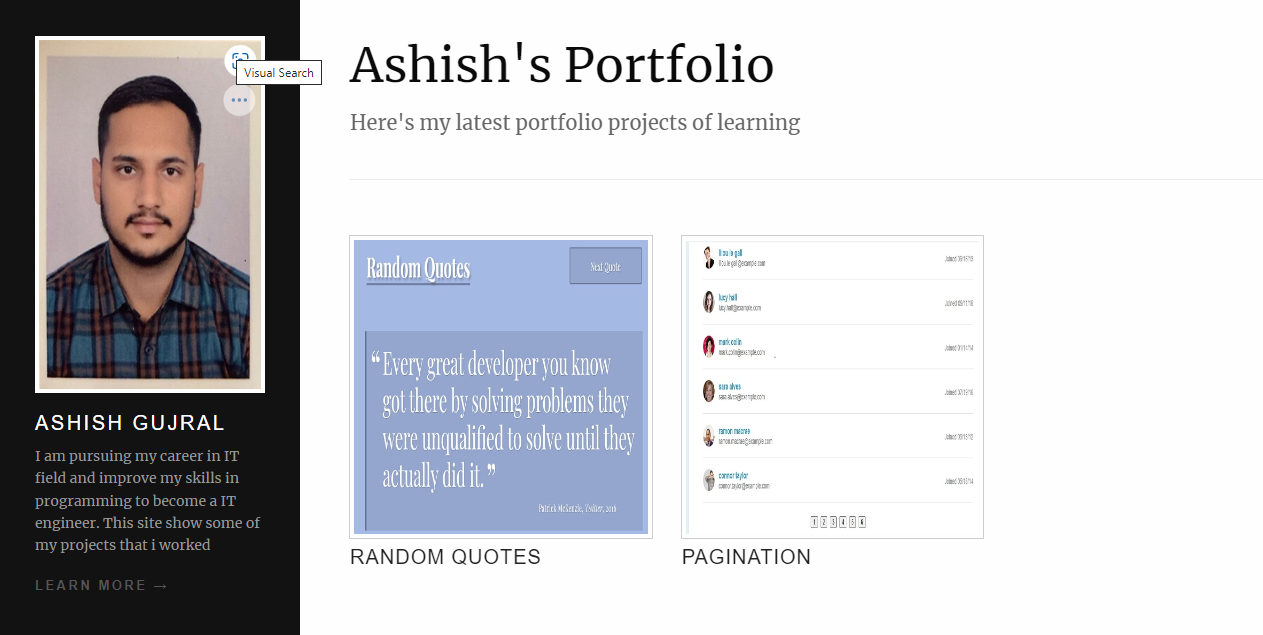
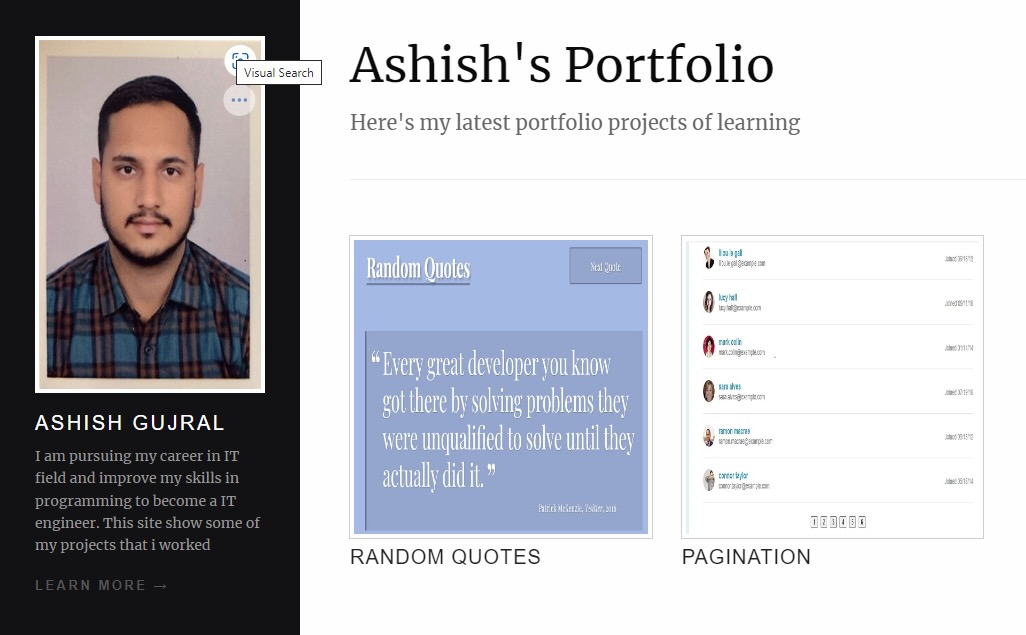
fix

diff --git a/src/Portfolio/Portfolio.jsx b/src/Portfolio/Portfolio.jsx
@@ -8,6 +8,7 @@ import Java from '../imgs/java.jpg'
 import Android1 from '../imgs/android1.jpg'
 import Android2 from '../imgs/android2.jpg'
 import PortfolioItem from './PortfolioItem';
+import Arduino from '../imgs/Arduino.jpg';
 import './Portfolio.css';
 import React, {useState} from 'react';
 
@@ -15,14 +16,14 @@ const portfolioData = [
   {
   category: 'web',
   imageSrc: Web1,
-  linkUrl: Web1,
+  linkUrl: "https://github.com/AshishGujral/Php-CrudOperation",
   title: 'WEB',
   subtitle: 'Php Crud Operation!',
   },
   {
   category: 'web',
   imageSrc: Web2,
-  linkUrl: Web2,
+  linkUrl: "https://github.com/AshishGujral/Php-LoginAuthentication",
   title: 'WEB',
   subtitle: 'Php user registration using Rest api!',
   },
@@ -43,21 +44,28 @@ const portfolioData = [
   {
   category: 'html',
   imageSrc: Html3,
-  linkUrl: Html3,
+  linkUrl: "https://github.com/AshishGujral/NodeJs-PortfolioProject",
   title: 'Node JS',
   subtitle: 'Portfolio website using node js',
   },
   {
   category: 'web',
   imageSrc: Java,
-  linkUrl: Java,
+  linkUrl: "https://github.com/AshishGujral/LibraryManagement-Javaproject",
   title: 'Java',
   subtitle: 'Library Application',
   },
   {
+    category: 'web',
+    imageSrc: Arduino,
+    linkUrl: 'https://github.com/AshishGujral/Synchome',
+    title: 'Full Stack',
+    subtitle: 'Using ESP32',
+    },
+  {
   category: 'android',
   imageSrc: Android1,
-  linkUrl: Android1,
+  linkUrl: "https://github.com/AshishGujral/BookShare",
   title: 'Android',
   subtitle: 'Bookshare App with login logout',
   },
@@ -84,7 +92,7 @@ const portfolioData = [
   
     return (
       <section className="section bg-custom-gray" id="portfolio">
-        <div className="container">
+        <div className="containe">
           <h2 className="mb-5">
             <span className="text-danger">My Portfolio </span>
             <span className="line"></span>

diff --git a/src/About/About.jsx b/src/About/About.jsx
@@ -32,7 +32,7 @@ const About = () => {
       <div id="about" className="row about-section">
         <div className="col-lg-4 about-card">
           <h3 className="font-weight-light">Who am I ?</h3>
-          <span className="line mb-5"></span>
+          <span className="line"></span>
           <h5 className="about-text" style={{opacity:0.8}}>
           As a passionate web developer, I strive to create unique and innovative web solutions that leave a lasting impact. From front-end design to back-end development, I'm always up for a challenge and eager to learn something new. 
 So grab a cup of coffee ☕ and let's dive into the world of web development together! 🌐💻
@@ -40,7 +40,7 @@ So grab a cup of coffee ☕ and let's dive into the world of web development 
         </div>
         <div className="col-lg-4 about-card">
           <h3 className="font-weight-light">Personal Info</h3>
-          <span className="line mb-5"></span>
+          <span className="line"></span>
           <ul className="mt40 info list-unstyled" >
             <li>
               <span>Email</span> : ashishgujral22@gmail.com

diff --git a/src/Portfolio/PortfolioItem.jsx b/src/Portfolio/PortfolioItem.jsx
@@ -1,17 +1,17 @@
-
 import './PortfolioItem.css';
+
 function PortfolioItem({ category, imageSrc, linkUrl, title, subtitle }) {
+  
+  const handleClick = () => {
+    window.open(linkUrl, '_blank');
+  };
   return (
     <div className={`col-md-6 col-lg-4 ${category} new`}>
       <div className="portfolio-item">
-        <img
-          src={imageSrc}
-          className="img-fluid"
-          alt={title}
-          height="200px"
-        />
-        <div className="content-holder">
-
+        <a href={linkUrl} target="_blank" rel="noopener noreferrer">
+          <img src={imageSrc} className="img-fluid" alt={title} style={{ height: '200px', width: '90%' }} />
+        </a>
+        <div className="content-holder" onClick={handleClick}>
           <div className="text-holder">
             <h6 className="title">{title}</h6>
             <p className="subtitle">{subtitle}</p>
@@ -22,4 +22,4 @@ function PortfolioItem({ category, imageSrc, linkUrl, title, subtitle }) {
   );
 }
 
-export default PortfolioItem ;
+export default PortfolioItem;

diff --git a/src/TeamView/TeamView.css b/src/TeamView/TeamView.css
@@ -2,21 +2,19 @@
   .card-text{
     width: 300px;
     height: 200px;
-  
   }
   .card-body{
     height: fit-content;
   }
+  #teamview{
+    width: 90%;
+    margin-left: auto;
+    margin-right: auto;
+  }
 .text-danger{
   font-size: 1em;
 }
-  .gtco-testimonials{
-    padding-right: 15px;
-    padding-left: 15px;
-    margin: 30px;
-    margin-top: 70px;
 
-  }
   .gtco-testimonials h2 {
     font-size: 30px;
     color: #333333;
@@ -66,6 +64,8 @@
     transform: scale(0.8);
     transition: all 0.3s ease;
     margin: auto;
+    width: auto;
+    max-width: 90;
   }
   
   .gtco-testimonials .card.active {
@@ -137,6 +137,14 @@
     .gtco-testimonials {
       margin-top: 20px;
     }
+    .card-text{
+      width: auto;
+      height: 230px;
+    }
+    .text-danger{
+      font-size: 0.8em;
+    }
+
   }
   .owl-carousel .owl-nav button.owl-next, .owl-carousel .owl-nav button.owl-prev {
     outline: 0;

diff --git a/src/Portfolio/PortfolioItem.css b/src/Portfolio/PortfolioItem.css
@@ -1,16 +1,24 @@
-
-  .portfolio .portfolio-container .portfolio-item .content-holder {
-    position: absolute;
-    top: 0;
-    left: 0;
-    width: 100%;
-    height: 100%;
-    background: rgba(248, 92, 112, 0.8);
-    color: #fff;
-    opacity: 0;
-    visibility: hidden;
-    text-align: center;
-  }
- .col-lg-4{
+.portfolio .portfolio-container .portfolio-item .content-holder {
+  position: absolute;
+  top: 0;
+  left: 0;
+  width: 100%;
+  height: 100%;
+  background: rgba(248, 92, 112, 0.8);
+  color: #fff;
+  opacity: 0;
+  visibility: hidden;
+  text-align: center;
+  /* Add the following styles to make the content-holder clickable */
+  display: flex;
+  justify-content: center;
+  align-items: center;
+  cursor: pointer;
+}
+.img-fluid {
+  margin-left: auto;
+  margin-right: auto;
+}
+.col-lg-4 {
   margin-top: 20px;
- }
+}

diff --git a/src/Education/Education.css b/src/Education/Education.css
@@ -35,8 +35,8 @@
     border: 1px solid rgba(0, 0, 0, 0.125);
     border-radius: 30px;
     width:fit-content;
-    min-width:max-content;
     box-sizing: border-box;
+    margin-left:40px;
   }
 
 .line {
@@ -44,6 +44,11 @@
     width: 25px;
     height: 1.5px;
     background-color: #F85C70;
+  }
+  #education{
+    margin-left: auto;
+    margin-right: auto;
+    width: 90%;
   }
   hr {
     margin-top: 1rem;
@@ -53,3 +58,12 @@
   }
   
 
+/* Extra Small Devices (portrait phones) */
+@media only screen and (max-width: 476px) {
+
+.card{
+  margin-left: auto;
+  margin-right: auto;
+  width: 90%;
+}
+}

diff --git a/src/Header/Header.css b/src/Header/Header.css
@@ -3,6 +3,7 @@
     padding-right: 15px;
     padding-left: 15px;
     margin-left:30px ;
+
   }
 
   .h4{
@@ -123,9 +124,9 @@
   .animated-item:nth-child(3n+3) {
     animation-delay: 4s;
   }
-  @media (min-width: 576px) {
+  @media (max-width: 576px) {
     .container {
-      max-width: 540px;
+      max-width: 140px;
     }
   }
   @keyframes BottomTotop {

diff --git a/src/Skills/Skills.jsx b/src/Skills/Skills.jsx
@@ -5,7 +5,7 @@ const Skills = (props) => {
     return (
       <div className="col-lg-4 about-card">
         <h3 className="font-weight-light">Skills</h3>
-        <span className="line mb-5"></span>
+        <span className="line"></span>
         <div className="row" id="sk">
             
           {props.item.map((item, index) => (

diff --git a/src/Education/Education.jsx b/src/Education/Education.jsx
@@ -3,7 +3,7 @@ import './Education.css';
 const Education = () => {
   return (
   <section className="section" id="education">
-  <div className="container">
+  <div className="containe">
       <h2 className="mb-5"><span className="text-danger">Education</span><span className="line"></span>  </h2>
       
       <div className="row">

diff --git a/src/Portfolio/Portfolio.css b/src/Portfolio/Portfolio.css
@@ -12,6 +12,10 @@
 
 #portfolio{
   margin-top: 70px;
+  width: 90%;
+  margin-left: auto;
+  margin-right: auto;
+ 
 }
 
 .btn-component {
@@ -76,6 +80,9 @@ button {
 
 button.active {
   background-color: #dc3545;
+}
+.mb-5{
+  padding: 5px;
 }
 
 .text-danger {
